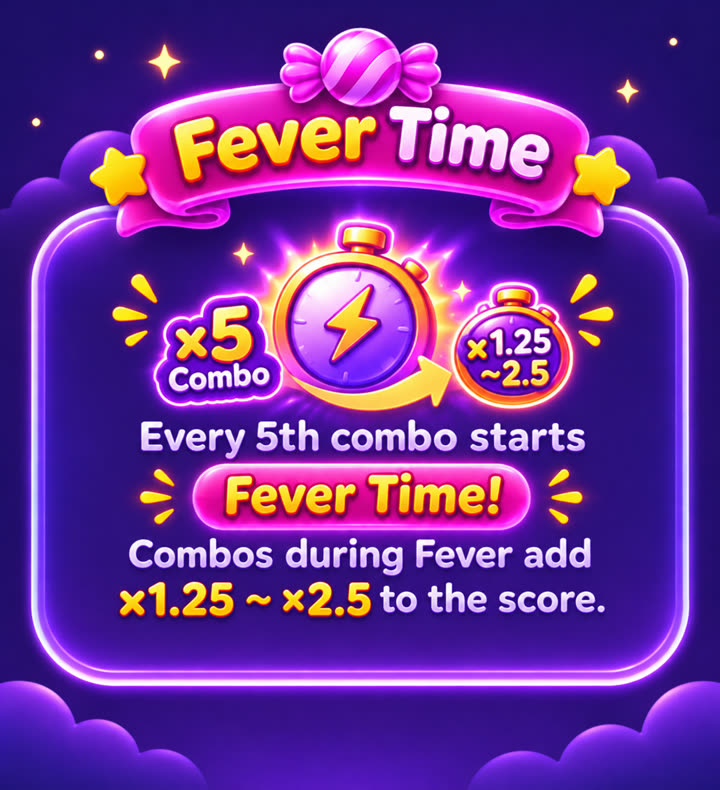
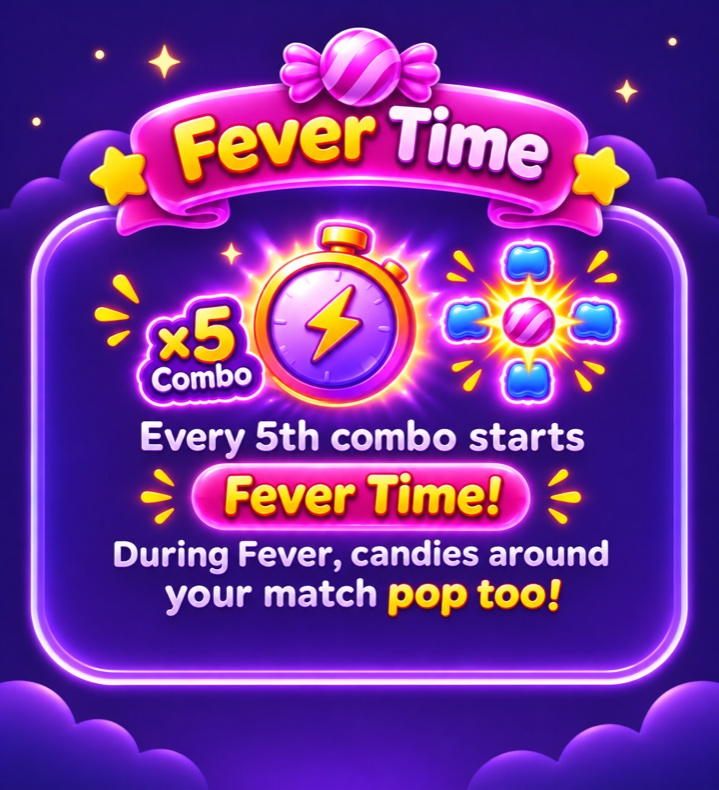
ChuPop: update Fever card and privacy policy
- Fever card: new rule (candies around the match pop too), no score multiplier
- Privacy: remove hearts, add achievement progress on server, rewarded ad verification

diff --git a/chupop/privacy/index.html b/chupop/privacy/index.html
@@ -33,7 +33,7 @@
 <div class="wrap">
   <header><a class="mark" href="../">AtticLab · <b>CHEW POP</b></a></header>
   <h1>Privacy Policy</h1>
-  <p class="date">Effective date: November 13, 2026</p>
+  <p class="date">Effective date: November 15, 2026</p>
 
   <section>
     <h2>01 · Overview</h2>
@@ -46,11 +46,12 @@
       <li><strong>Anonymous account ID</strong> — created automatically. It is not linked to your name, email or phone number.</li>
       <li><strong>Nickname</strong> — generated automatically. You can change it in Settings.</li>
       <li><strong>Game data</strong> — your scores, best score, and round records (the round's random seed and your moves), which we use to verify that scores are genuine. We also record the app version.</li>
+      <li><strong>Achievement progress</strong> — totals such as rounds played, combos and special candies used, so your achievements are kept if you reinstall the App.</li>
       <li><strong>Profile photo (optional)</strong> — only if you choose one. It is resized to 256×256 before upload.</li>
       <li><strong>Photo reports</strong> — if you report another player's photo.</li>
       <li><strong>App integrity key</strong> — Apple's App Attest is used to confirm that requests come from the genuine App on a real device. It does not identify you.</li>
     </ul>
-    <p>Settings, hearts and your local best score are stored only on your device.</p>
+    <p>Settings and your local best score are stored only on your device. Achievement progress is stored on your device and on our server.</p>
   </section>
 
   <section>
@@ -72,13 +73,13 @@
     <ul>
       <li><strong>Supabase</strong> — stores ranking data and profile photos (servers in Seoul, South Korea). <a href="https://supabase.com/privacy">Privacy policy</a></li>
       <li><strong>OpenAI</strong> — profile photos are sent to OpenAI's moderation service for an automatic content check before they are saved. <a href="https://openai.com/policies/privacy-policy">Privacy policy</a></li>
-      <li><strong>Google AdMob</strong> — shows ads in the App. The App requests non-personalized ads only. AdMob may collect device information and IP address to serve and measure ads. <a href="https://policies.google.com/privacy">Privacy policy</a></li>
+      <li><strong>Google AdMob</strong> — shows ads in the App. The App requests non-personalized ads only. AdMob may collect device information and IP address to serve and measure ads. If you watch a rewarded ad to continue a round, AdMob sends us a confirmation that includes your anonymous account ID and the round ID, so we can verify the reward. <a href="https://policies.google.com/privacy">Privacy policy</a></li>
     </ul>
   </section>
 
   <section>
     <h2>06 · Keeping and Deleting Your Data</h2>
-    <p>We keep your data while you use the App. You can delete your profile photo at any time in Settings. To delete your account, nickname, scores and photo, use <strong>Settings → Delete My Data</strong>, or email us at the address below.</p>
+    <p>We keep your data while you use the App. You can delete your profile photo at any time in Settings. To delete your account, nickname, scores, achievement progress and photo, use <strong>Settings → Delete My Data</strong>, or email us at the address below.</p>
     <p>Deleting the App removes the data stored on your device, but not the data on our server. Use Delete My Data for that.</p>
   </section>
 

diff --git a/chupop/index.html b/chupop/index.html
@@ -79,7 +79,7 @@
     <div class="grid">
       <img class="cardimg" src="cards/round.jpg" alt="One-minute rounds. Each round lasts 1 minute! Match candies to make combos and get the highest score!" loading="lazy" />
       <img class="cardimg" src="cards/special.jpg" alt="Special candies. Bigger matches and the bomb gauge give you Bombs, Ghosts and Bears. Mix them together for bigger blasts!" loading="lazy" />
-      <img class="cardimg" src="cards/fever.jpg" alt="Fever Time. Every 5th combo starts Fever Time! Your score is multiplied by x1.25 to x2.5 during Fever." loading="lazy" />
+      <img class="cardimg" src="cards/fever.jpg" alt="Fever Time. Every 5th combo starts Fever Time! During Fever, candies around your match pop too!" loading="lazy" />
       <img class="cardimg" src="cards/lastpang.jpg" alt="Last Pang. When time runs out, the bombs, ghosts and gummy bears left on the board pop one last time for bonus points!" loading="lazy" />
       <img class="cardimg" src="cards/ranking.jpg" alt="Global ranking. Your best score goes on the global ranking with your nickname and an optional profile photo!" loading="lazy" />
       <img class="cardimg" src="cards/free.jpg" alt="Free to play. CHEW POP is free to download and play!" loading="lazy" />
